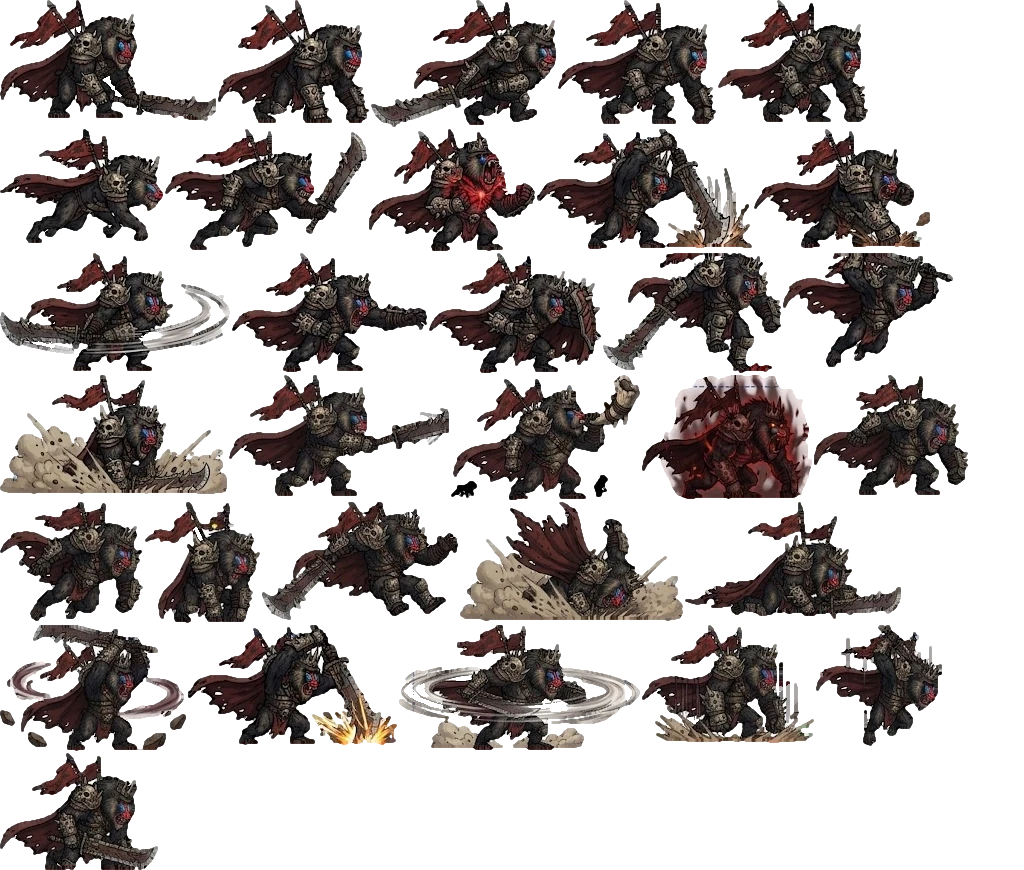
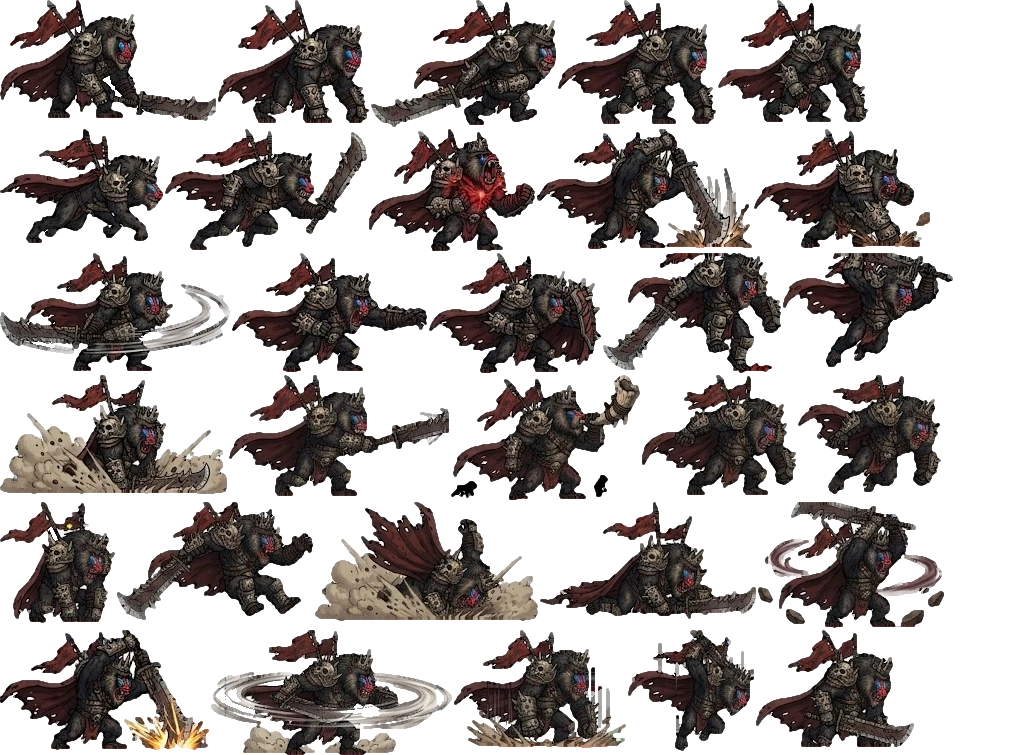
Painted Jennifur: animated captive, rescue and cutscene sprite; Iron-Claw roar frame; floor-standing captive
Jennifur is cut from the Gemini pose sheets (scared/sad/happy/cheer loops) and
replaces the static vector in the finale and on every story card, with a mood
per scene. She now stands on the arena floor instead of floating 70 units up.

Claude-Session: https://claude.ai/code/session_01MECZjGJdFPh6sMPZ3fVR1g

diff --git a/src/game/ironclawAtlasData.ts b/src/game/ironclawAtlasData.ts
@@ -1,4 +1,4 @@
 /** Generated by pack_boss.py from the Gemini General Iron-Claw sheets. Frames face RIGHT; ax/ay is the middle of the body on the ground line. */
 export interface BossFrame { x: number; y: number; w: number; h: number; ax: number; ay: number }
-export const IRONCLAW_ATLAS_SIZE = { w: 1024, h: 870 };
-export const IRONCLAW_FRAMES: Record<string, BossFrame> = {"idle": {"x": 0, "y": 0, "w": 216, "h": 121, "ax": 93.0, "ay": 119}, "march0": {"x": 218, "y": 0, "w": 151, "h": 123, "ax": 87.0, "ay": 124}, "march1": {"x": 371, "y": 0, "w": 185, "h": 127, "ax": 98.0, "ay": 126}, "march2": {"x": 558, "y": 0, "w": 158, "h": 124, "ax": 91.0, "ay": 124}, "march3": {"x": 718, "y": 0, "w": 150, "h": 122, "ax": 91.0, "ay": 124}, "gallop1": {"x": 0, "y": 129, "w": 163, "h": 114, "ax": 79.0, "ay": 115}, "gallop2": {"x": 165, "y": 129, "w": 202, "h": 121, "ax": 82.0, "ay": 123}, "roar": {"x": 369, "y": 129, "w": 166, "h": 122, "ax": 93.0, "ay": 123}, "overhead": {"x": 537, "y": 129, "w": 215, "h": 120, "ax": 103.0, "ay": 121}, "knuckle": {"x": 754, "y": 129, "w": 176, "h": 119, "ax": 92.0, "ay": 120}, "swipe": {"x": 0, "y": 253, "w": 230, "h": 118, "ax": 118.0, "ay": 120}, "grab": {"x": 232, "y": 253, "w": 195, "h": 119, "ax": 99.0, "ay": 120}, "block": {"x": 429, "y": 253, "w": 172, "h": 120, "ax": 98.0, "ay": 120}, "stomp": {"x": 603, "y": 253, "w": 178, "h": 120, "ax": 111.0, "ay": 121}, "leapcrush": {"x": 783, "y": 253, "w": 170, "h": 114, "ax": 82.0, "ay": 114}, "crushland": {"x": 0, "y": 375, "w": 227, "h": 119, "ax": 117.0, "ay": 121}, "bladethrow": {"x": 229, "y": 375, "w": 220, "h": 121, "ax": 97.0, "ay": 122}, "warhorn": {"x": 451, "y": 375, "w": 189, "h": 125, "ax": 96.0, "ay": 126}, "buff": {"x": 642, "y": 375, "w": 170, "h": 124, "ax": 91.0, "ay": 125}, "hurt": {"x": 814, "y": 375, "w": 154, "h": 120, "ax": 84.0, "ay": 121}, "hurt2": {"x": 0, "y": 502, "w": 143, "h": 119, "ax": 76.0, "ay": 121}, "stunned": {"x": 145, "y": 502, "w": 115, "h": 121, "ax": 64.0, "ay": 121}, "staggered": {"x": 262, "y": 502, "w": 196, "h": 118, "ax": 112.0, "ay": 121}, "defeat1": {"x": 460, "y": 502, "w": 223, "h": 119, "ax": 110.0, "ay": 121}, "defeat2": {"x": 685, "y": 502, "w": 216, "h": 117, "ax": 99.0, "ay": 115}, "cataprep": {"x": 0, "y": 625, "w": 186, "h": 126, "ax": 94.0, "ay": 126}, "bladeclash": {"x": 188, "y": 625, "w": 209, "h": 120, "ax": 103.0, "ay": 121}, "whirl": {"x": 399, "y": 625, "w": 241, "h": 125, "ax": 120.0, "ay": 126}, "doublefist": {"x": 642, "y": 625, "w": 172, "h": 118, "ax": 89.0, "ay": 119}, "aerial": {"x": 816, "y": 625, "w": 126, "h": 121, "ax": 70.0, "ay": 121}, "crippled": {"x": 0, "y": 753, "w": 158, "h": 117, "ax": 89.0, "ay": 119}};
+export const IRONCLAW_ATLAS_SIZE = { w: 1024, h: 755 };
+export const IRONCLAW_FRAMES: Record<string, BossFrame> = {"idle": {"x": 0, "y": 0, "w": 216, "h": 121, "ax": 93.0, "ay": 119}, "march0": {"x": 218, "y": 0, "w": 151, "h": 123, "ax": 87.0, "ay": 124}, "march1": {"x": 371, "y": 0, "w": 185, "h": 127, "ax": 98.0, "ay": 126}, "march2": {"x": 558, "y": 0, "w": 158, "h": 124, "ax": 91.0, "ay": 124}, "march3": {"x": 718, "y": 0, "w": 150, "h": 122, "ax": 91.0, "ay": 124}, "gallop1": {"x": 0, "y": 129, "w": 163, "h": 114, "ax": 79.0, "ay": 115}, "gallop2": {"x": 165, "y": 129, "w": 202, "h": 121, "ax": 82.0, "ay": 123}, "roar": {"x": 369, "y": 129, "w": 166, "h": 122, "ax": 93.0, "ay": 123}, "overhead": {"x": 537, "y": 129, "w": 215, "h": 120, "ax": 103.0, "ay": 121}, "knuckle": {"x": 754, "y": 129, "w": 176, "h": 119, "ax": 92.0, "ay": 120}, "swipe": {"x": 0, "y": 253, "w": 230, "h": 118, "ax": 118.0, "ay": 120}, "grab": {"x": 232, "y": 253, "w": 195, "h": 119, "ax": 99.0, "ay": 120}, "block": {"x": 429, "y": 253, "w": 172, "h": 120, "ax": 98.0, "ay": 120}, "stomp": {"x": 603, "y": 253, "w": 178, "h": 120, "ax": 111.0, "ay": 121}, "leapcrush": {"x": 783, "y": 253, "w": 170, "h": 114, "ax": 82.0, "ay": 114}, "crushland": {"x": 0, "y": 375, "w": 227, "h": 119, "ax": 117.0, "ay": 121}, "bladethrow": {"x": 229, "y": 375, "w": 220, "h": 121, "ax": 97.0, "ay": 122}, "warhorn": {"x": 451, "y": 375, "w": 189, "h": 125, "ax": 96.0, "ay": 126}, "hurt": {"x": 642, "y": 375, "w": 154, "h": 120, "ax": 84.0, "ay": 121}, "hurt2": {"x": 798, "y": 375, "w": 143, "h": 119, "ax": 76.0, "ay": 121}, "stunned": {"x": 0, "y": 502, "w": 115, "h": 121, "ax": 64.0, "ay": 121}, "staggered": {"x": 117, "y": 502, "w": 196, "h": 118, "ax": 112.0, "ay": 121}, "defeat1": {"x": 315, "y": 502, "w": 223, "h": 119, "ax": 110.0, "ay": 121}, "defeat2": {"x": 540, "y": 502, "w": 216, "h": 117, "ax": 99.0, "ay": 115}, "cataprep": {"x": 758, "y": 502, "w": 186, "h": 126, "ax": 94.0, "ay": 126}, "bladeclash": {"x": 0, "y": 630, "w": 209, "h": 120, "ax": 103.0, "ay": 121}, "whirl": {"x": 211, "y": 630, "w": 241, "h": 125, "ax": 120.0, "ay": 126}, "doublefist": {"x": 454, "y": 630, "w": 172, "h": 118, "ax": 89.0, "ay": 119}, "aerial": {"x": 628, "y": 630, "w": 126, "h": 121, "ax": 70.0, "ay": 121}, "crippled": {"x": 756, "y": 630, "w": 158, "h": 117, "ax": 89.0, "ay": 119}};

diff --git a/src/game/jennifurSprite.ts b/src/game/jennifurSprite.ts
@@ -1,0 +1,88 @@
+/**
+ * Painted Jennifur, Slomatt's girlfriend (the Heartbloom keeper in the pink "07" running kit), from the Gemini pose sheets. Used wherever
+ * she appears: the captive in the final stage, the rescue, and every story card and cutscene. Like the other painted creatures it is a
+ * switch: `?jennifur=sprite|classic`, `localStorage.sloth_jennifur = 'sprite'`; the vector Jennifur draws while the atlas loads or when off.
+ *
+ * She is a little animation player: each mood is a timed loop over the sheet's frames, so she is never a still picture.
+ *   scared      captive: shivers, looks about, laments, waves her arms, hops in panic
+ *   scaredwave  waving both arms in alarm (calling out as she is carried off)
+ *   sad         sad idle, sobbing, wiping her tears
+ *   happy       calm and glad: hands on hips, a wave, a laugh
+ *   cheer       rescued: hops, fist pumps, victory dance
+ */
+import { trackAtlas } from './atlasLoader.ts';
+import { JENNIFUR_FRAMES } from './jennifurAtlasData.ts';
+
+export type JennifurMood = 'scared' | 'scaredwave' | 'sad' | 'happy' | 'cheer';
+
+export const DEFAULT_SPRITE_JENNIFUR = true;
+/** world units per atlas pixel: she stands about as tall as the vector Jennifur did */
+const K = 0.46;
+
+/** [frame, seconds] loops */
+const LOOPS: Record<JennifurMood, Array<[string, number]>> = {
+  scared: [['scared', 1.0], ['shiver', 0.3], ['scared', 0.25], ['shiver', 0.3], ['lookL', 0.6], ['lookR', 0.6], ['lament', 0.9], ['wave1', 0.22], ['wave2', 0.22], ['wave1', 0.22], ['wave2', 0.22], ['hopstart', 0.2], ['hopup', 0.2], ['air1', 0.18], ['air2', 0.18], ['landing', 0.3]],
+  scaredwave: [['wave1', 0.22], ['wave2', 0.22], ['flap', 0.22], ['wave2', 0.22]],
+  sad: [['sad', 1.3], ['sob', 0.5], ['wipe', 0.8], ['sob', 0.5], ['sad', 1.0], ['slump', 1.2]],
+  happy: [['winner', 1.2], ['wave', 0.9], ['winner', 1.2], ['laugh', 0.5]],
+  cheer: [['cheer', 0.4], ['jhop', 0.26], ['vjump', 0.26], ['fists', 0.4], ['dance', 0.26], ['laugh', 0.3], ['wave', 0.5]],
+};
+const TOTALS = Object.fromEntries(Object.entries(LOOPS).map(([k, v]) => [k, v.reduce((a, [, d]) => a + d, 0)])) as Record<JennifurMood, number>;
+
+let enabled: boolean | null = null;
+let atlas: HTMLImageElement | null = null;
+let ready = false;
+
+function isEnabled() {
+  if (enabled !== null) return enabled;
+  let v = DEFAULT_SPRITE_JENNIFUR;
+  try {
+    const q = new URLSearchParams(location.search).get('jennifur');
+    if (q === 'sprite') v = true;
+    else if (q === 'classic') v = false;
+    else if (localStorage.getItem('sloth_jennifur') === 'sprite') v = true;
+  } catch {
+    /* no window or storage: keep the default */
+  }
+  enabled = v;
+  return v;
+}
+
+function active() {
+  if (!isEnabled() || typeof Image === 'undefined') return false;
+  if (!atlas) {
+    const img = new Image();
+    atlas = img;
+    trackAtlas(img, new URL('../assets/characters/jennifur-atlas.webp', import.meta.url).href, () => { ready = true; }, () => { atlas = null; });
+  }
+  return ready;
+}
+
+/** true once the painted Jennifur can draw (so a caller can lay a shadow under her only then) */
+export function jennifurSpriteReady(): boolean {
+  return active();
+}
+
+/** the frame a mood shows at a time */
+export function jennifurFrame(mood: JennifurMood, time: number): string {
+  const loop = LOOPS[mood];
+  let t = ((time % TOTALS[mood]) + TOTALS[mood]) % TOTALS[mood];
+  for (const [name, d] of loop) {
+    if (t < d) return name;
+    t -= d;
+  }
+  return loop[0][0];
+}
+
+/**
+ * Draws Jennifur with her feet at the origin, facing right (the caller mirrors her); `scale` multiplies her usual size.
+ * Returns false (drawing nothing) while the atlas loads or when the painted version is switched off.
+ */
+export function drawJennifurSprite(ctx: CanvasRenderingContext2D, mood: JennifurMood, time: number, scale = 1): boolean {
+  if (!active() || !atlas) return false;
+  const f = JENNIFUR_FRAMES[jennifurFrame(mood, time)];
+  if (!f) return false;
+  const k = K * scale;
+  ctx.drawImage(atlas, f.x, f.y, f.w, f.h, -f.ax * k, -f.ay * k, f.w * k, f.h * k);
+  return true;
+}

diff --git a/src/game/jennifurAtlasData.ts b/src/game/jennifurAtlasData.ts
@@ -1,0 +1,4 @@
+/** Generated by pack_boss.py from the Gemini Jennifur sheets. Frames face RIGHT; ax/ay is the middle of the body on the ground line. */
+export interface BossFrame { x: number; y: number; w: number; h: number; ax: number; ay: number }
+export const JENNIFUR_ATLAS_SIZE = { w: 1024, h: 1200 };
+export const JENNIFUR_FRAMES: Record<string, BossFrame> = {"scared": {"x": 0, "y": 0, "w": 101, "h": 199, "ax": 50.0, "ay": 199}, "shiver": {"x": 103, "y": 0, "w": 100, "h": 190, "ax": 45.0, "ay": 190}, "lookL": {"x": 205, "y": 0, "w": 129, "h": 197, "ax": 50.0, "ay": 198}, "lookR": {"x": 336, "y": 0, "w": 133, "h": 199, "ax": 72.0, "ay": 199}, "lament": {"x": 471, "y": 0, "w": 114, "h": 182, "ax": 51.0, "ay": 183}, "wave1": {"x": 587, "y": 0, "w": 184, "h": 201, "ax": 89.0, "ay": 201}, "wave2": {"x": 773, "y": 0, "w": 198, "h": 201, "ax": 97.0, "ay": 201}, "hopstart": {"x": 0, "y": 203, "w": 160, "h": 201, "ax": 76.0, "ay": 201}, "hopup": {"x": 162, "y": 203, "w": 191, "h": 196, "ax": 91.0, "ay": 212}, "air1": {"x": 355, "y": 203, "w": 177, "h": 176, "ax": 81.0, "ay": 210}, "air2": {"x": 534, "y": 203, "w": 150, "h": 191, "ax": 69.0, "ay": 208}, "landing": {"x": 686, "y": 203, "w": 180, "h": 189, "ax": 89.0, "ay": 189}, "hop2": {"x": 0, "y": 406, "w": 180, "h": 194, "ax": 87.0, "ay": 209}, "flap": {"x": 182, "y": 406, "w": 200, "h": 196, "ax": 100.0, "ay": 201}, "crash": {"x": 384, "y": 406, "w": 204, "h": 164, "ax": 102.0, "ay": 164}, "tantrum": {"x": 590, "y": 406, "w": 199, "h": 170, "ax": 94.0, "ay": 170}, "sad": {"x": 791, "y": 406, "w": 102, "h": 199, "ax": 48.0, "ay": 199}, "sob": {"x": 0, "y": 607, "w": 173, "h": 186, "ax": 58.0, "ay": 186}, "dwalk1": {"x": 175, "y": 607, "w": 131, "h": 191, "ax": 58.0, "ay": 191}, "dwalk2": {"x": 308, "y": 607, "w": 135, "h": 188, "ax": 67.0, "ay": 187}, "slump": {"x": 445, "y": 607, "w": 126, "h": 166, "ax": 53.0, "ay": 166}, "lookaway": {"x": 573, "y": 607, "w": 100, "h": 193, "ax": 50.0, "ay": 193}, "wipe": {"x": 675, "y": 607, "w": 119, "h": 193, "ax": 49.0, "ay": 193}, "cower": {"x": 796, "y": 607, "w": 113, "h": 189, "ax": 57.0, "ay": 190}, "cheer": {"x": 0, "y": 802, "w": 175, "h": 199, "ax": 81.0, "ay": 199}, "jhop": {"x": 177, "y": 802, "w": 188, "h": 188, "ax": 90.0, "ay": 196}, "wave": {"x": 367, "y": 802, "w": 150, "h": 194, "ax": 60.0, "ay": 194}, "vjump": {"x": 519, "y": 802, "w": 168, "h": 186, "ax": 82.0, "ay": 195}, "fists": {"x": 689, "y": 802, "w": 146, "h": 194, "ax": 65.0, "ay": 194}, "dance": {"x": 837, "y": 802, "w": 167, "h": 191, "ax": 83.0, "ay": 191}, "winner": {"x": 0, "y": 1003, "w": 130, "h": 197, "ax": 66.0, "ay": 196}, "laugh": {"x": 132, "y": 1003, "w": 170, "h": 189, "ax": 86.0, "ay": 197}};

diff --git a/src/game/engine.ts b/src/game/engine.ts
@@ -19,6 +19,7 @@ import { PHYS, swingGrab, swingStep, tarzanLaunch } from './physics.ts';
 import { renderScenery, renderOverlay, setWeatherAvoid } from './scenery.ts';
 import { setSceneSeed, rollSceneSeed } from './sceneSeed.ts';
 import { drawEagleSprite } from './eagleSprite.ts';
+import { drawJennifurSprite, jennifurSpriteReady } from './jennifurSprite.ts';
 import { drawSnakeSprite } from './snakeSprite.ts';
 import { drawTayraSprite } from './tayraSprite.ts';
 import { drawOcelotSprite } from './ocelotSprite.ts';
@@ -2503,13 +2504,27 @@ export class GameEngine {
 
     // Render Jennifur if present in level
     if (this.currentStage.daisyX !== undefined && this.currentStage.daisyY !== undefined) {
-      drawGirlfriendDaisy(
-        ctx,
-        this.currentStage.daisyX,
-        this.currentStage.daisyY,
-        this.gameTime,
-        this.daisyRescued
-      );
+      // the painted Jennifur (scared while she is held, cheering once rescued), else the vector one
+      let paintedJen = false;
+      if (jennifurSpriteReady()) {
+        ctx.save();
+        ctx.translate(this.currentStage.daisyX, this.currentStage.daisyY);
+        ctx.fillStyle = 'rgba(15, 23, 42, 0.3)';
+        ctx.beginPath();
+        ctx.ellipse(0, 0, 22, 5, 0, 0, Math.PI * 2);
+        ctx.fill();
+        paintedJen = drawJennifurSprite(ctx, this.daisyRescued ? 'cheer' : 'scared', this.gameTime, 0.8);
+        ctx.restore();
+      }
+      if (!paintedJen) {
+        drawGirlfriendDaisy(
+          ctx,
+          this.currentStage.daisyX,
+          this.currentStage.daisyY,
+          this.gameTime,
+          this.daisyRescued
+        );
+      }
     }
 
     // Render Enemies

diff --git a/src/game/story.ts b/src/game/story.ts
@@ -4,6 +4,8 @@
  * rendered by StoryPlayer with scenes drawn from the in-game art.
  */
 
+import type { JennifurMood } from './jennifurSprite.ts';
+
 export type ActorKind =
   | 'milo'
   | 'daisy'
@@ -28,6 +30,8 @@ export interface SceneActor {
   angry?: boolean;
   /** boss only: defeated and dizzy */
   beaten?: boolean;
+  /** daisy (Jennifur) only: which animation she plays */
+  mood?: JennifurMood;
   /** milo only: pose */
   pose?: 'idle' | 'punch' | 'duck' | 'happy';
 }
@@ -107,7 +111,7 @@ export const INTRO_PANELS: StoryPanel[] = [
       world: 1, mood: 'storm', particles: 'rain', zoom: 1.08, focusX: 0.5,
       actors: [
         { kind: 'milo', x: 0.22, scale: 0.95 },
-        { kind: 'daisy', x: 0.46, scale: 0.95 },
+        { kind: 'daisy', x: 0.46, scale: 0.95, mood: 'scared' },
         { kind: 'boss', world: 10, x: 0.74, scale: 1.25, facing: -1, angry: true },
       ],
     },
@@ -120,7 +124,7 @@ export const INTRO_PANELS: StoryPanel[] = [
       world: 1, mood: 'storm', particles: 'petals', zoom: 1.12, focusX: 0.45,
       actors: [
         { kind: 'milo', x: 0.22, scale: 1.0 },
-        { kind: 'daisy_wave', x: 0.64, y: 0.6, scale: 0.9 },
+        { kind: 'daisy_wave', x: 0.64, y: 0.6, scale: 0.9, mood: 'scaredwave' },
       ],
     },
   },
@@ -381,7 +385,7 @@ export const ENDING_PANELS: StoryPanel[] = [
       world: 10, mood: 'glow', particles: 'sparkles', zoom: 1.4, focusX: 0.5,
       actors: [
         { kind: 'milo', x: 0.3, scale: 1.1, pose: 'happy' },
-        { kind: 'daisy_wave', x: 0.68, scale: 1.1 },
+        { kind: 'daisy_wave', x: 0.68, scale: 1.1, mood: 'cheer' },
       ],
     },
   },

diff --git a/src/game/ironclawSprite.ts b/src/game/ironclawSprite.ts
@@ -5,7 +5,7 @@
  *
  * He marches in the four-frame warlord march and gallops in the two charge frames. Poses follow the boss brain: the raised blade
  * and the smash for the staff slam, the hurled blade for the spear throw, the horn call for the war cry, the stomp and double fist
- * for the ground pound, the glowing rage pose between phases, the groggy stagger and the fallen tyrant.
+ * for the ground pound, the roar between phases, the groggy stagger and the fallen tyrant.
  */
 import { createPaintedBoss } from './paintedBoss.ts';
 import { IRONCLAW_FRAMES } from './ironclawAtlasData.ts';
@@ -26,7 +26,7 @@ export const ironclawSprite = createPaintedBoss({
     const mv = br.move;
     if (br.state === 'dying') name = br.t < 0.5 ? 'hurt2' : br.t < 1.1 ? 'staggered' : br.t < 1.7 ? 'defeat1' : 'defeat2';
     else if (br.state === 'stun') name = 'stunned';
-    else if (br.state === 'roar') name = 'buff';
+    else if (br.state === 'roar') name = 'roar';
     else if (br.state === 'tell') {
       if (mv === 'staffSlam') name = 'cataprep';
       else if (mv === 'spearThrow') name = 'knuckle';

diff --git a/src/game/storyArt.ts b/src/game/storyArt.ts
@@ -2,6 +2,7 @@ import type { BossEntity, PlayerState } from './types.ts';
 import { drawPaintedCardBoss } from './bossArt.ts';
 import { renderScenery, renderOverlay, withBakeScale } from './scenery.ts';
 import { drawHeroSloth, drawGirlfriendDaisy, drawBossEntity } from './vectorArt.ts';
+import { drawJennifurSprite } from './jennifurSprite.ts';
 import { drawMilo } from './miloVariants.ts';
 import type { StoryScene, SceneActor } from './story.ts';
 
@@ -275,7 +276,7 @@ function drawActor(ctx: CanvasRenderingContext2D, a: SceneActor, w: number, h: n
     case 'daisy_wave': {
       ctx.scale(s, s);
       if (a.facing === -1) ctx.scale(-1, 1);
-      drawGirlfriendDaisy(ctx, 0, 0, t, a.kind === 'daisy_wave');
+      if (!drawJennifurSprite(ctx, a.mood ?? (a.kind === 'daisy_wave' ? 'cheer' : 'happy'), t)) drawGirlfriendDaisy(ctx, 0, 0, t, a.kind === 'daisy_wave');
       break;
     }
     case 'boss': {

diff --git a/src/game/stageGenerator.ts b/src/game/stageGenerator.ts
@@ -1049,7 +1049,7 @@ function buildBoss(gen: Gen): GeneratedStage {
     spawnY: floor,
     exitTotemX: cfg.levelWidth - 220,
     exitTotemY: floor,
-    ...(cfg.secret ? {} : { daisyX: right + 150, daisyY: floor - 70 }),
+    ...(cfg.secret ? {} : { daisyX: right + 150, daisyY: floor }),
     arena: { left, right, floor },
   };
 }
